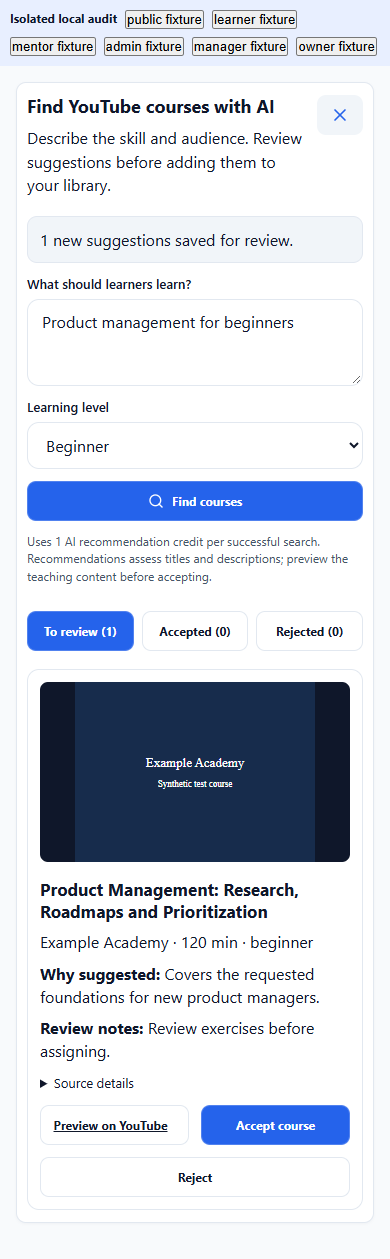
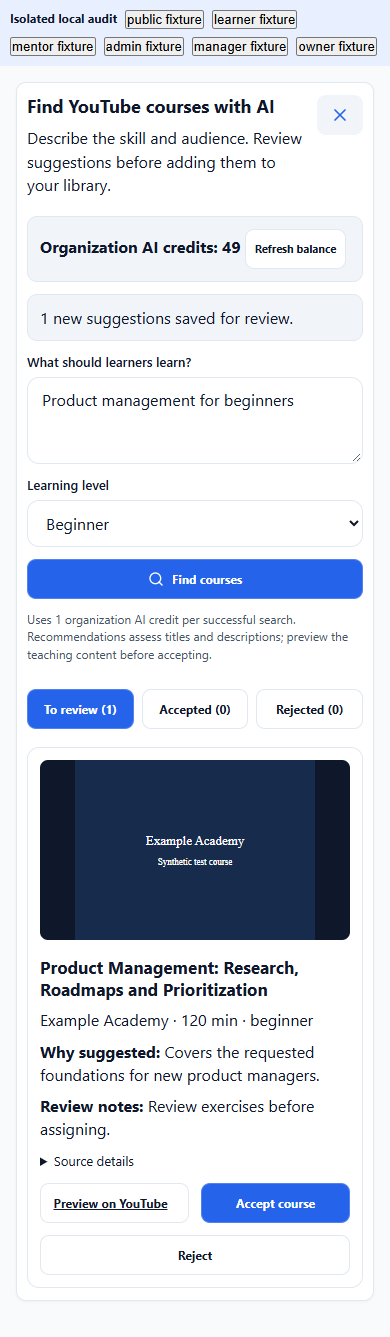
Use organization AI credits for admin YouTube discovery

diff --git a/supabase/functions/youtube-course-discovery/index.ts b/supabase/functions/youtube-course-discovery/index.ts
@@ -52,12 +52,16 @@ Deno.serve(async (req) => {
       return json({ error: "Organization admin access required." }, 403);
     const youtubeKey = Deno.env.get("YOUTUBE_API_KEY"),
       aiKey = Deno.env.get("OPENAI_API_KEY");
-    if (body.action === "status")
+    if (body.action === "status") {
+      const {data:organizationCredits,error:balanceError}=await client.rpc('get_youtube_discovery_credit_balance',{p_org_id:org});
+      if(balanceError) throw new Error('Could not read the organization AI balance. Please retry.');
       return json({
         ready: !!youtubeKey && !!aiKey,
         youtube: !!youtubeKey,
         ai: !!aiKey,
+        organizationCredits,
       });
+    }
     if (!youtubeKey || !aiKey)
       return json(
         {
@@ -132,8 +136,8 @@ Deno.serve(async (req) => {
     if (reserveError) return json({ error: reserveError.message }, 429);
     searchId = reserved;
     const { data: credits, error: creditError } = await client.rpc(
-      "consume_ai_credits",
-      { p_operation_key: "ai_recommendation", p_reference_id: searchId },
+      "consume_youtube_discovery_credits",
+      { p_search_id: searchId },
     );
     if (creditError)
       throw new Error("AI usage could not be verified. Please retry.");
@@ -145,7 +149,7 @@ Deno.serve(async (req) => {
       return json(
         {
           error:
-            "Your AI credits are exhausted. Ask the platform owner to add credits.",
+            "Your organization’s AI credits are exhausted. Ask the platform owner to add organization credits.",
         },
         402,
       );

diff --git a/src/platform/admin/YouTubeCourseDiscovery.jsx b/src/platform/admin/YouTubeCourseDiscovery.jsx
@@ -56,6 +56,7 @@ export function YouTubeCourseDiscovery({
     } catch (e) {
       setError(e.message || "Could not save. Please retry.");
     } finally {
+      try { setConnection(await api.discoveryStatus(orgId)); } catch {}
       setBusy("");
     }
   }
@@ -85,6 +86,7 @@ export function YouTubeCourseDiscovery({
           <X size={20} />
         </button>
       </div>
+      {Number.isFinite(connection?.organizationCredits) && <div className="yt-message" role="status"><strong>Organization AI credits: {connection.organizationCredits}</strong>{" "}<button className="ta-btn ta-btn-outline ta-btn-sm" disabled={loading || !!busy} onClick={load}>Refresh balance</button></div>}
       {error && (
         <div className="yt-message yt-error" role="alert">
           {error}{" "}
@@ -170,7 +172,7 @@ export function YouTubeCourseDiscovery({
           </button>
         </div>
         <p className="yt-muted">
-          Uses 1 AI recommendation credit per successful search. Recommendations
+            Uses 1 organization AI credit per successful search. Recommendations
           assess titles and descriptions; preview the teaching content before
           accepting.
         </p>

diff --git a/scripts/audit/youtube-fixture.jsx b/scripts/audit/youtube-fixture.jsx
@@ -20,6 +20,7 @@ function rows() {
 }
 const api = {
   discoveryStatus: async () => ({
+    organizationCredits: sessionStorage.getItem('youtube-fixture') ? 49 : 50,
     ready: !new URLSearchParams(location.search).has("missing_key"),
     youtube: !new URLSearchParams(location.search).has("missing_key"),
     ai: true,

diff --git a/docs/audit/youtube-discovery-2026-10-26.md b/docs/audit/youtube-discovery-2026-10-26.md
@@ -6,7 +6,7 @@ Admins can open **Courses → Find YouTube courses**, describe a skill and audie
 
 The `youtube-course-discovery` Edge Function uses the existing server-side `OPENAI_API_KEY` and a new server-side `YOUTUBE_API_KEY`. The latter must belong to a Google Cloud project with **YouTube Data API v3** enabled and should be restricted to that API. Public video discovery uses an API key; admins do not need to grant access to a personal YouTube account. Keys are never stored in browser code or learner records.
 
-The function was deployed to the canonical production project `jeobggrtxeybxvlwpxvn`. Migration `202610260001_youtube_course_discovery.sql` was applied successfully through its SQL editor. The production secret list contained the AI connection but no YouTube key at deployment time. The user was given setup instructions. Actual provider search cannot be verified until the YouTube key is saved; the UI displays this pending setup state and disables new searches.
+The function was deployed to the canonical production project `jeobggrtxeybxvlwpxvn`. Migration `202610260001_youtube_course_discovery.sql` was applied successfully through its SQL editor. YouTube Data API v3 was subsequently enabled in the existing Train AI Google Cloud project. With the user's explicit confirmation, a dedicated key restricted to that API was created and saved as the encrypted `YOUTUBE_API_KEY` server secret. No key was saved in source code.
 
 ## Accuracy and permissions
 
@@ -15,7 +15,7 @@ The function was deployed to the canonical production project `jeobggrtxeybxvlwp
 - Saved suggestions, review decisions and imports are scoped to an organization. Only its active owner/admin or a platform owner can operate this flow. Learners cannot create suggestions or approve courses, and direct browser writes to discovery tables are denied.
 - Accepting is transactional and deduplicates imports by organization and YouTube video. New imports stay unpublished; accepted/rejected state survives reload. Rejection can be reversed. Old unverified suggestions expire after one day.
 - Assignment validates active organization membership, excludes suspended members and cohort instructors from whole-cohort assignment, preserves existing enrollment progress, and prevents duplicate records. No automatic enrollment occurs on search or acceptance.
-- Search uses existing `ai_recommendation` credit metering and refunds provider failures and empty results. Organization search limits (10/hour, 50/day) prevent unbounded provider usage. No learner personal data is sent to the AI; only the administrator's course request, chosen level and public video metadata are used.
+- Admin search uses one organization AI credit and the existing ledger/refund mechanism; provider failures and empty results are refunded. Organization search limits (10/hour, 50/day) prevent unbounded provider usage. No learner personal data is sent to the AI; only the administrator's course request, chosen level and public video metadata are used.
 - Removed the previous curriculum button that inserted four fixed YouTube links while claiming to generate AI lessons.
 
 ## Verification
@@ -25,3 +25,11 @@ The function was deployed to the canonical production project `jeobggrtxeybxvlwp
 - Existing unit suite: 33 passed. Screen render audit: 73 passed (existing unrelated React `fetchPriority` warning).
 - Deno type check and production website build passed.
 - Screenshots in `youtube-discovery/review-*.png` use synthetic records and a synthetic thumbnail. No test courses, learner assignments or fake suggestions were created in production.
+
+## Organization credit routing correction
+
+The user requested 50 additional Sara Foundation organization credits. They were added once to the verified organization account with an `admin_grant` ledger entry, yielding a balance of 50. A later live search still reported exhausted credits. Reading the actual production `consume_ai_credits` function established the cause: it explicitly excludes Sara Foundation from organization fallback and uses personal learner credits.
+
+Migration `202610260002_admin_discovery_organization_credits.sql` introduces an admin-only organization-funded operation bound to the saved search, its creator, and its organization. It charges one credit with row locks, records the debit in the existing ledger, denies duplicate charges, and preserves the existing learner credit policy. It also adds an admin-only balance read. The admin search page displays the organization balance with an explicit refresh control and refreshes it after a search, including failed searches/refunds. No second 50-credit grant was made.
+
+Regression coverage verifies the 50→49 organization debit, duplicate-charge denial, cross-organization/learner access denial, zero-credit denial without a ledger write, and updated balance display after searching.
